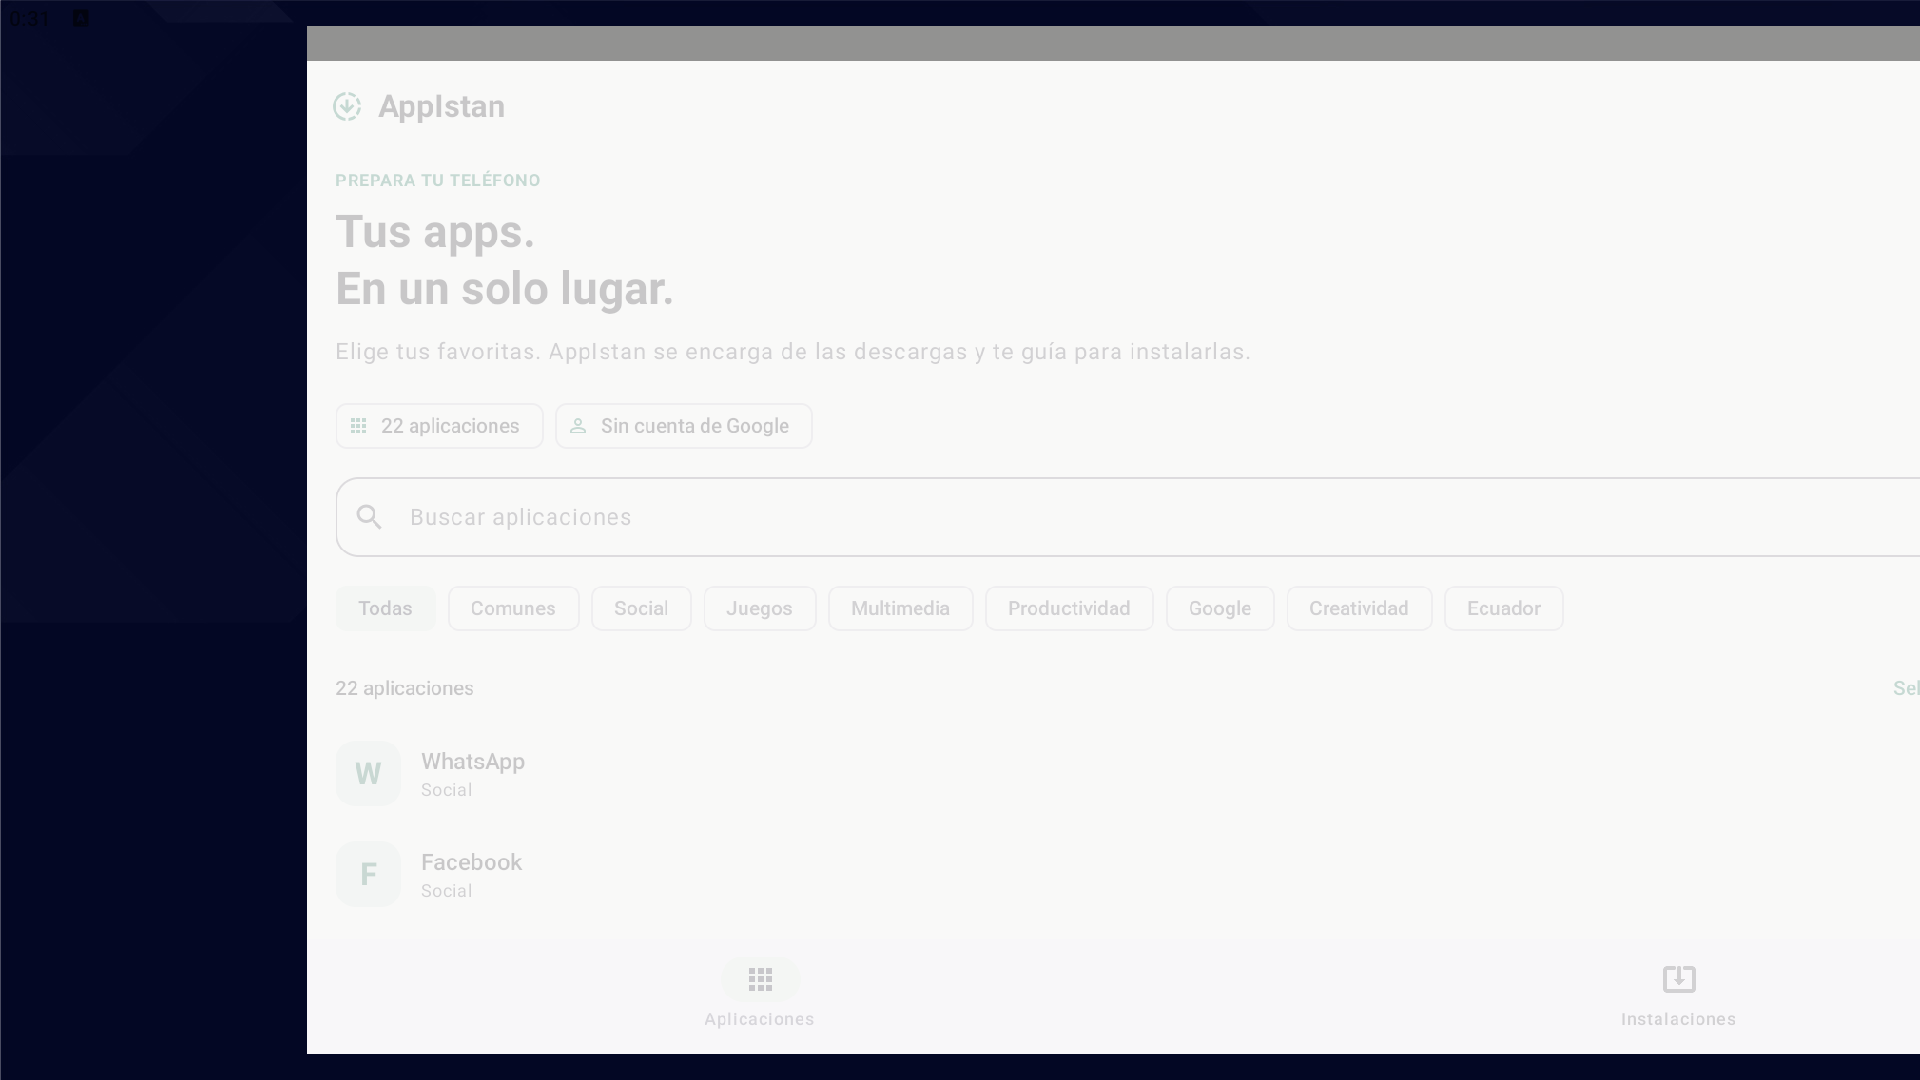
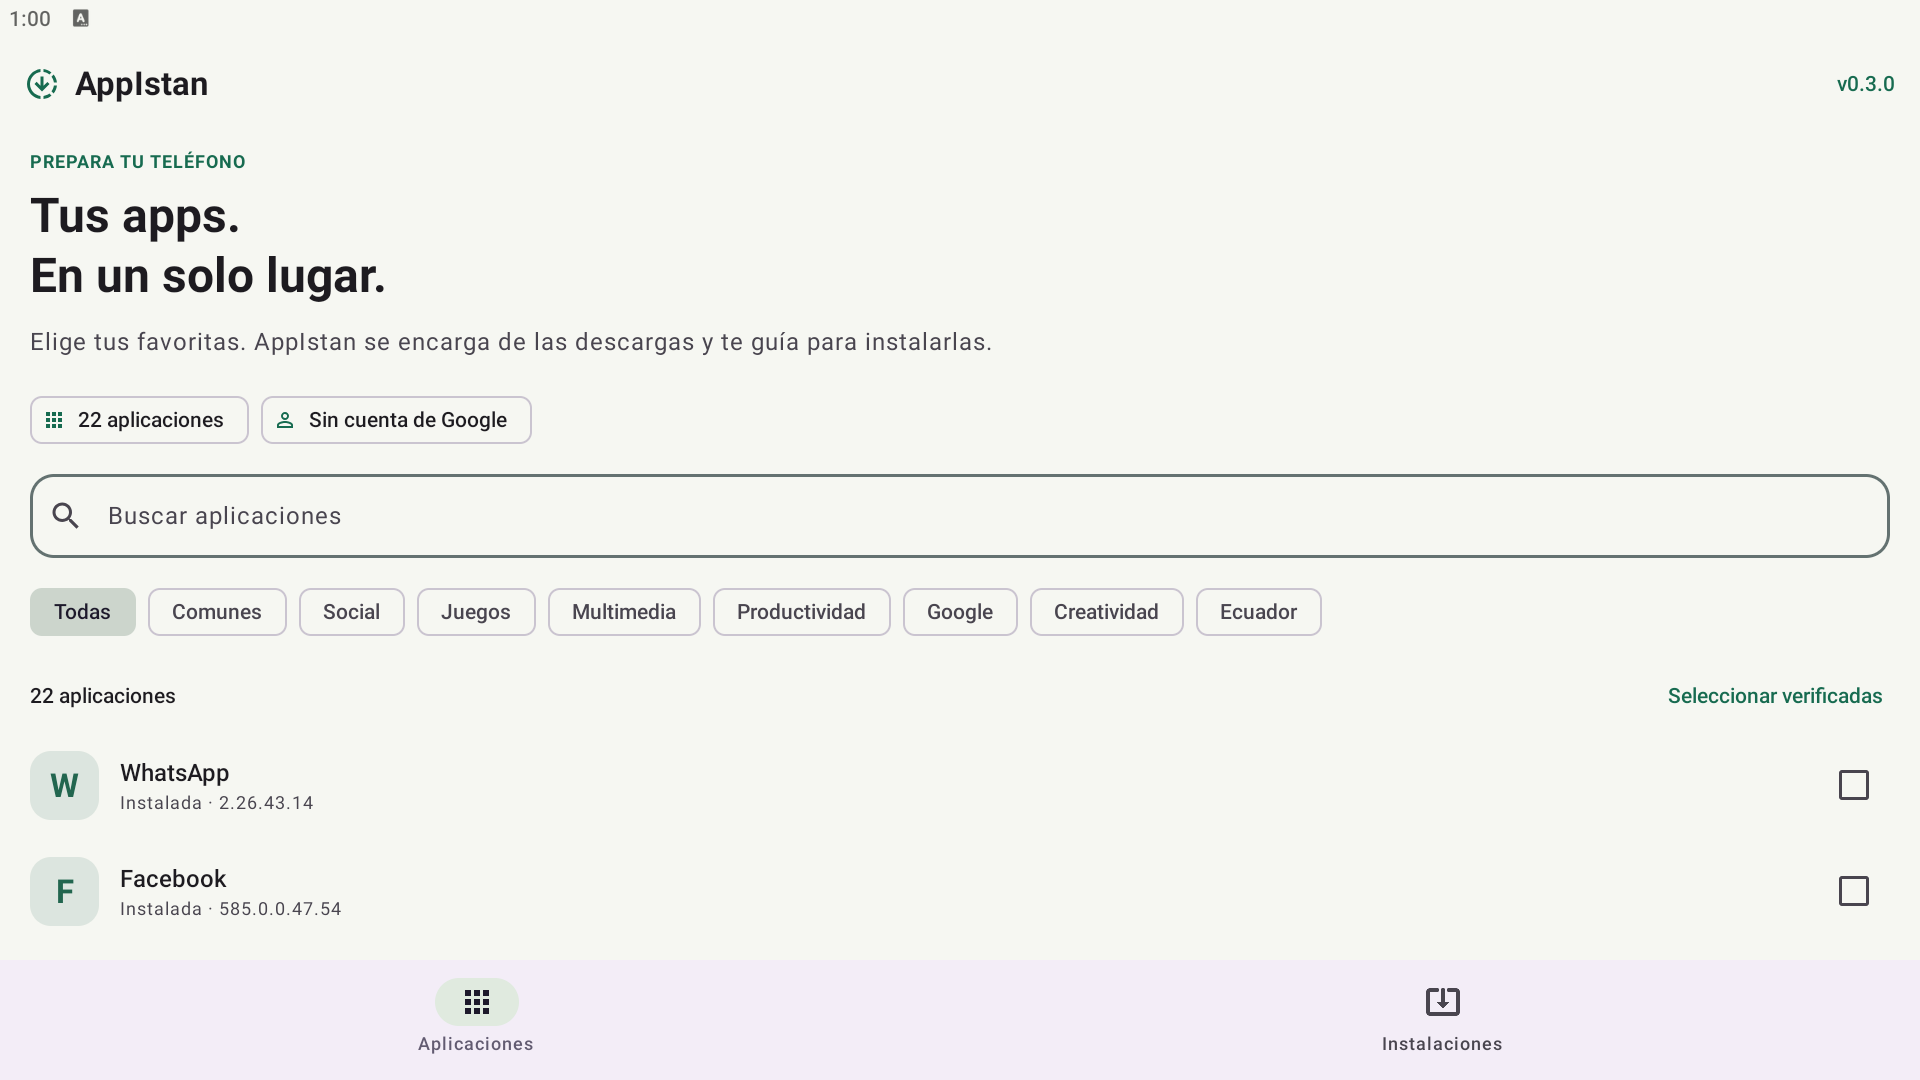
feat: download full batch before sequential installs

diff --git a/app/src/main/java/com/appistan/installer/InstallEngine.kt b/app/src/main/java/com/appistan/installer/InstallEngine.kt
@@ -20,6 +20,7 @@ class InstallEngine(private val context: AppIstan, val dao: QueueDao, private va
     private val installer = context.packageManager.packageInstaller
     val checks = PackageChecks(context, catalog)
     private val source = ApkSource()
+    private val preferences = context.getSharedPreferences("installer", Context.MODE_PRIVATE)
     private val prompts = ConcurrentHashMap<Int, Intent>()
     private val privateRoot = File(context.filesDir, "packages").apply { mkdirs() }
 
@@ -34,6 +35,11 @@ class InstallEngine(private val context: AppIstan, val dao: QueueDao, private va
 
     suspend fun recover() = lock.withLock {
         dao.items().forEach { row ->
+            if (row.id == catalog.playServices.id && PlayServicesPolicy.previousRejection(row)) {
+                if (row.phase == Phase.FAILED) rememberPlayServicesRejection()
+                complete(row, Phase.SKIPPED, PlayServicesPolicy.managedMessage)
+                return@forEach
+            }
             when (row.phase) {
                 Phase.RESOLVING -> dao.put(row.copy(phase = Phase.QUEUED, message = "Reanudando consulta"))
                 Phase.VERIFYING -> dao.put(row.copy(phase = Phase.DOWNLOADING, message = "Revisando archivos"))
@@ -54,10 +60,8 @@ class InstallEngine(private val context: AppIstan, val dao: QueueDao, private va
                 try { refresh(row) } catch (error: Exception) { fail(row, error) }
             }
             val rows = dao.items()
-            val gms = rows.firstOrNull { it.id == catalog.playServices.id }
-            val available = if (gms != null && !gms.phase.terminal) listOf(gms) else rows
             var slots = 2 - rows.count { it.phase == Phase.DOWNLOADING }
-            for (row in available.filter { it.phase == Phase.QUEUED }) {
+            for (row in rows.filter { it.phase == Phase.QUEUED }) {
                 if (slots <= 0) break
                 try { resolveAndDownload(row); slots-- } catch (error: Exception) { fail(row, error) }
             }
@@ -70,6 +74,13 @@ class InstallEngine(private val context: AppIstan, val dao: QueueDao, private va
         val installed = checks.installed(row.id)
         if (app.id == catalog.playServices.id && installed == null) {
             complete(row, Phase.SKIPPED, "Play Services no está instalado. Puedes continuar; algunas apps pueden necesitarlo.")
+            return
+        }
+        if (app.id == catalog.playServices.id && installed != null && (PlayServicesPolicy.systemManagedRuntime(Build.SUPPORTED_ABIS.toList()) || PlayServicesPolicy.blockedForCurrentSystem(
+                PackageChecks.version(installed), Build.FINGERPRINT,
+                preferences.getLong("gms_blocked_version", -1), preferences.getString("gms_blocked_build", null)
+            ))) {
+            complete(row, Phase.SKIPPED, PlayServicesPolicy.managedMessage)
             return
         }
         require(checks.trusted(row.id).isNotEmpty()) { "No disponible: falta corroborar la firma original del desarrollador" }
@@ -147,14 +158,12 @@ class InstallEngine(private val context: AppIstan, val dao: QueueDao, private va
         val actualRelease = release.copy(versionCode = verified.versionCode, versionName = verified.versionName)
         val current = checks.installed(row.id)?.let(PackageChecks::version)
         if (!ReleasePolicy.needsUpdate(current, verified.versionCode)) complete(row.copy(release = actualRelease.encode()), Phase.SKIPPED, "Ya tienes esta versión o una más reciente")
-        else dao.put(row.copy(phase = Phase.READY, message = "Lista para instalar · ${verified.versionName}", release = actualRelease.encode(), downloaded = received, total = total))
+        else dao.put(row.copy(phase = Phase.READY, message = "Descargada y verificada · ${verified.versionName}", release = actualRelease.encode(), downloaded = received, total = total))
     }
 
     suspend fun installNext(): Boolean = lock.withLock {
         val rows = dao.items()
-        if (rows.any { it.phase in setOf(Phase.INSTALLING, Phase.AWAITING_USER) }) return@withLock false
-        val gms = rows.firstOrNull { it.id == catalog.playServices.id && !it.phase.terminal }
-        val row = (if (gms == null) rows else listOf(gms)).firstOrNull { it.phase == Phase.READY } ?: return@withLock false
+        val row = BatchPolicy.nextInstall(rows) ?: return@withLock false
         var sessionId = -1
         try {
             require(context.packageManager.canRequestPackageInstalls()) { "Activa el permiso para instalar aplicaciones desde AppIstan" }
@@ -195,13 +204,20 @@ class InstallEngine(private val context: AppIstan, val dao: QueueDao, private va
             }
             PackageInstaller.STATUS_SUCCESS -> { complete(row, Phase.SUCCESS, "Instalada correctamente"); prompts.remove(sessionId) }
             else -> {
+                if (row.id == catalog.playServices.id && PlayServicesPolicy.permanentRejection(status)) {
+                    android.util.Log.w("AppIstan", "Play Services del sistema conservado: estado=$status, ${detail.orEmpty().take(180)}")
+                    rememberPlayServicesRejection()
+                    complete(row, Phase.SKIPPED, PlayServicesPolicy.managedMessage)
+                    prompts.remove(sessionId)
+                    return
+                }
                 val message = when (status) {
                     PackageInstaller.STATUS_FAILURE_ABORTED -> "Instalación cancelada en Android"
                     PackageInstaller.STATUS_FAILURE_STORAGE -> "Espacio insuficiente para instalar"
                     PackageInstaller.STATUS_FAILURE_CONFLICT -> "La firma o la versión no permite actualizar la aplicación instalada"
                     PackageInstaller.STATUS_FAILURE_INCOMPATIBLE -> "Esta versión no es compatible con el dispositivo"
                     PackageInstaller.STATUS_FAILURE_BLOCKED -> "Android bloqueó la instalación. Revisa los permisos o restricciones del dispositivo"
-                    PackageInstaller.STATUS_FAILURE_INVALID -> if (row.id == catalog.playServices.id) "Android rechazó esta actualización de Play Services. El resto del lote puede continuar." else "Android rechazó el conjunto de APK para este dispositivo. Prueba más tarde con otra versión."
+                    PackageInstaller.STATUS_FAILURE_INVALID -> "Android rechazó el conjunto de APK para este dispositivo. Prueba más tarde con otra versión."
                     else -> "Android no pudo instalar esta aplicación. Revisa la compatibilidad y vuelve a intentarlo."
                 }
                 android.util.Log.w("AppIstan", "Instalación rechazada: ${row.id}, estado=$status, ${detail.orEmpty().take(180)}")
@@ -212,6 +228,11 @@ class InstallEngine(private val context: AppIstan, val dao: QueueDao, private va
 
     fun takePrompt(sessionId: Int): Intent? = prompts.remove(sessionId)
     fun hasPrompt(sessionId: Int) = prompts.containsKey(sessionId)
+
+    private fun rememberPlayServicesRejection() {
+        val version = checks.installed(catalog.playServices.id)?.let(PackageChecks::version) ?: return
+        preferences.edit().putLong("gms_blocked_version", version).putString("gms_blocked_build", Build.FINGERPRINT).commit()
+    }
 
     suspend fun cancel(id: String) = lock.withLock {
         val row = dao.item(id) ?: return@withLock

diff --git a/app/src/main/java/com/appistan/installer/MainActivity.kt b/app/src/main/java/com/appistan/installer/MainActivity.kt
@@ -118,6 +118,8 @@ class MainActivity : ComponentActivity() {
     val focus = LocalFocusManager.current
     val running = rows.any { !it.phase.terminal }
     val finished = rows.count { it.phase.terminal }
+    val downloading = BatchPolicy.hasPendingDownloads(rows)
+    val prepared = BatchPolicy.preparedCount(rows)
     LaunchedEffect(error) { error?.let { snackbar.showSnackbar(it); model.error.value = null } }
     LaunchedEffect(rows.map { Triple(it.id, it.phase, it.sessionId) }, lifecycleState) {
         if (lifecycleState != Lifecycle.State.RESUMED) return@LaunchedEffect
@@ -179,11 +181,11 @@ class MainActivity : ComponentActivity() {
             }
         } else {
             LazyColumn(Modifier.fillMaxSize().padding(insets), contentPadding = PaddingValues(20.dp), verticalArrangement = Arrangement.spacedBy(12.dp)) {
-                item { Text(if (running) "Vamos paso a paso" else "Lote finalizado", style = MaterialTheme.typography.headlineMedium, fontWeight = FontWeight.Bold) }
+                item { Text(when { !running -> "Lote finalizado"; downloading -> "Descargando el lote"; else -> "Instalando el lote" }, style = MaterialTheme.typography.headlineMedium, fontWeight = FontWeight.Bold) }
                 item { Column(verticalArrangement = Arrangement.spacedBy(10.dp)) {
-                    Text("$finished de ${rows.size} procesadas · ${rows.count { it.phase == Phase.SUCCESS }} instaladas", color = MaterialTheme.colorScheme.onSurfaceVariant)
-                    LinearProgressIndicator(progress = { finished.toFloat() / rows.size }, modifier = Modifier.fillMaxWidth())
-                    Text("Android te pedirá confirmar las instalaciones. Puedes continuar aunque Play Services no se actualice.", style = MaterialTheme.typography.bodySmall, color = MaterialTheme.colorScheme.onSurfaceVariant)
+                    Text(if (downloading) "Descargas: $prepared de ${rows.size} procesadas" else "$finished de ${rows.size} procesadas · ${rows.count { it.phase == Phase.SUCCESS }} instaladas", color = MaterialTheme.colorScheme.onSurfaceVariant)
+                    LinearProgressIndicator(progress = { (if (downloading) prepared else finished).toFloat() / rows.size }, modifier = Modifier.fillMaxWidth())
+                    Text(if (downloading) "Primero se descargan y verifican todas las aplicaciones. Después confirmarás las instalaciones una por una." else "Confirma cada instalación para continuar con la siguiente. Play Services no bloquea las aplicaciones seleccionadas.", style = MaterialTheme.typography.bodySmall, color = MaterialTheme.colorScheme.onSurfaceVariant)
                 } }
                 items(rows, key = { it.id }) { row -> QueueCard(row, onCancel = { model.cancel(row.id) }, onRetry = { model.retry(row.id) }) }
             }

diff --git a/app/src/test/java/com/appistan/installer/PlayServicesPolicyTest.kt b/app/src/test/java/com/appistan/installer/PlayServicesPolicyTest.kt
@@ -1,0 +1,33 @@
+package com.appistan.installer
+
+import android.content.pm.PackageInstaller
+import org.junit.Assert.*
+import org.junit.Test
+
+class PlayServicesPolicyTest {
+    @Test fun translatedEmulatorKeepsItsPlatformPlayServicesBuild() {
+        assertTrue(PlayServicesPolicy.systemManagedRuntime(listOf("x86_64", "x86", "arm64-v8a", "armeabi-v7a")))
+        assertFalse(PlayServicesPolicy.systemManagedRuntime(listOf("arm64-v8a", "armeabi-v7a")))
+        assertFalse(PlayServicesPolicy.systemManagedRuntime(listOf("x86_64", "x86")))
+    }
+    @Test fun skipsTheSystemVersionThatAlreadyRejectedAnUpdate() {
+        assertTrue(PlayServicesPolicy.blockedForCurrentSystem(241017026, "build-a", 241017026, "build-a"))
+        assertFalse(PlayServicesPolicy.blockedForCurrentSystem(241017026, "build-a", -1, null))
+    }
+    @Test fun systemUpdateAllowsCheckingAgain() {
+        assertFalse(PlayServicesPolicy.blockedForCurrentSystem(251000000, "build-a", 241017026, "build-a"))
+        assertFalse(PlayServicesPolicy.blockedForCurrentSystem(241017026, "build-b", 241017026, "build-a"))
+    }
+    @Test fun temporaryFailuresDoNotDisableUpdates() {
+        assertTrue(PlayServicesPolicy.permanentRejection(PackageInstaller.STATUS_FAILURE_INVALID))
+        assertTrue(PlayServicesPolicy.permanentRejection(PackageInstaller.STATUS_FAILURE_INCOMPATIBLE))
+        assertFalse(PlayServicesPolicy.permanentRejection(PackageInstaller.STATUS_FAILURE_STORAGE))
+        assertFalse(PlayServicesPolicy.permanentRejection(PackageInstaller.STATUS_FAILURE_ABORTED))
+        assertFalse(PlayServicesPolicy.permanentRejection(PackageInstaller.STATUS_FAILURE_BLOCKED))
+    }
+    @Test fun recoversTheRejectionRecordedByThePreviousVersion() {
+        val rejected = QueueItem("com.google.android.gms", "Google Play Services", 0, Phase.FAILED, "Android rechazó esta actualización de Play Services. El resto del lote puede continuar.")
+        assertTrue(PlayServicesPolicy.previousRejection(rejected))
+        assertFalse(PlayServicesPolicy.previousRejection(rejected.copy(message = "Se interrumpió la conexión de descarga")))
+    }
+}

diff --git a/app/src/test/java/com/appistan/installer/BatchPolicyTest.kt b/app/src/test/java/com/appistan/installer/BatchPolicyTest.kt
@@ -1,0 +1,36 @@
+package com.appistan.installer
+
+import org.junit.Assert.*
+import org.junit.Test
+
+class BatchPolicyTest {
+    private fun row(position: Int, phase: Phase) = QueueItem("app.$position", "App $position", position, phase)
+
+    @Test fun waitsForEveryDownloadAndVerification() {
+        for (phase in listOf(Phase.QUEUED, Phase.RESOLVING, Phase.DOWNLOADING, Phase.VERIFYING)) {
+            val rows = listOf(row(0, Phase.READY), row(1, phase))
+            assertTrue(BatchPolicy.hasPendingDownloads(rows))
+            assertNull(BatchPolicy.nextInstall(rows))
+        }
+    }
+    @Test fun startsInBatchOrderOnlyAfterEverythingIsPrepared() {
+        val first = row(0, Phase.READY)
+        assertEquals(first, BatchPolicy.nextInstall(listOf(row(2, Phase.READY), first, row(1, Phase.READY))))
+    }
+    @Test fun neverStartsASecondInstallerWhileTheFirstIsActive() {
+        assertNull(BatchPolicy.nextInstall(listOf(row(0, Phase.INSTALLING), row(1, Phase.READY))))
+        assertNull(BatchPolicy.nextInstall(listOf(row(0, Phase.AWAITING_USER), row(1, Phase.READY))))
+    }
+    @Test fun failedSkippedAndCancelledAppsDoNotBlockThePreparedApps() {
+        val next = row(3, Phase.READY)
+        assertEquals(next, BatchPolicy.nextInstall(listOf(row(0, Phase.SKIPPED), row(1, Phase.FAILED), row(2, Phase.CANCELLED), next)))
+    }
+    @Test fun retryingAnAppReturnsToTheDownloadPhase() {
+        assertNull(BatchPolicy.nextInstall(listOf(row(0, Phase.SUCCESS), row(1, Phase.QUEUED), row(2, Phase.READY))))
+    }
+    @Test fun emptyAndFinishedBatchesDoNotStartAnInstaller() {
+        assertNull(BatchPolicy.nextInstall(emptyList()))
+        assertNull(BatchPolicy.nextInstall(listOf(row(0, Phase.SUCCESS), row(1, Phase.SKIPPED))))
+        assertEquals(1, BatchPolicy.preparedCount(listOf(row(0, Phase.READY), row(1, Phase.DOWNLOADING))))
+    }
+}

diff --git a/app/src/main/java/com/appistan/installer/PlayServicesPolicy.kt b/app/src/main/java/com/appistan/installer/PlayServicesPolicy.kt
@@ -1,0 +1,26 @@
+package com.appistan.installer
+
+import android.content.pm.PackageInstaller
+
+object PlayServicesPolicy {
+    const val managedMessage = "Play Services se mantiene con la versión del sistema. Continúas con las aplicaciones seleccionadas."
+
+    fun blockedForCurrentSystem(installedVersion: Long, deviceBuild: String, blockedVersion: Long, blockedBuild: String?) =
+        installedVersion >= 0 && installedVersion == blockedVersion && deviceBuild == blockedBuild
+
+    fun systemManagedRuntime(abis: List<String>): Boolean {
+        // Native translation uses the platform's own Play Services variant.
+        val supported = abis.map(ReleasePolicy::normalizeAbi)
+        return supported.any { it.startsWith("x86") } && supported.any { it.startsWith("arm") }
+    }
+
+    fun permanentRejection(status: Int) = status in setOf(
+        PackageInstaller.STATUS_FAILURE_INVALID,
+        PackageInstaller.STATUS_FAILURE_INCOMPATIBLE,
+        PackageInstaller.STATUS_FAILURE_CONFLICT
+    )
+
+    fun previousRejection(row: QueueItem): Boolean =
+        (row.phase == Phase.SKIPPED && row.message == managedMessage) ||
+            (row.phase == Phase.FAILED && (row.message.startsWith("Android rechazó esta actualización de Play Services") || row.message.contains("INSTALL_FAILED_INVALID_APK")))
+}

diff --git a/site/index.html b/site/index.html
@@ -30,8 +30,8 @@
       <div class="section-heading"><h2 id="steps-title">Del celular vacío<br>a tus apps favoritas.</h2><p>Menos búsquedas, menos descargas por separado. Tú decides qué instalar.</p></div>
       <ol>
         <li><span class="step-number" aria-hidden="true">1</span><h3>Elige</h3><p>Busca las aplicaciones disponibles o entra en Comunes para encontrar Facebook, WhatsApp, TikTok y Messenger.</p></li>
-        <li><span class="step-number" aria-hidden="true">2</span><h3>Descarga</h3><p>AppIstan revisa primero Play Services y prepara las versiones compatibles disponibles.</p></li>
-        <li><span class="step-number" aria-hidden="true">3</span><h3>Confirma</h3><p>Aprueba las instalaciones que te solicite Android y sigue el progreso desde la app.</p></li>
+        <li><span class="step-number" aria-hidden="true">2</span><h3>Descarga</h3><p>AppIstan revisa Play Services y descarga y verifica todo el lote antes de comenzar a instalar.</p></li>
+        <li><span class="step-number" aria-hidden="true">3</span><h3>Confirma</h3><p>Cuando terminen las descargas, aprueba las instalaciones de Android una tras otra.</p></li>
       </ol>
     </section>
 

diff --git a/app/src/main/java/com/appistan/installer/BatchPolicy.kt b/app/src/main/java/com/appistan/installer/BatchPolicy.kt
@@ -1,0 +1,11 @@
+package com.appistan.installer
+
+object BatchPolicy {
+    private val downloadPhases = setOf(Phase.QUEUED, Phase.RESOLVING, Phase.DOWNLOADING, Phase.VERIFYING)
+    fun hasPendingDownloads(rows: List<QueueItem>) = rows.any { it.phase in downloadPhases }
+    fun preparedCount(rows: List<QueueItem>) = rows.count { it.phase !in downloadPhases }
+    fun nextInstall(rows: List<QueueItem>): QueueItem? {
+        if (hasPendingDownloads(rows) || rows.any { it.phase == Phase.INSTALLING || it.phase == Phase.AWAITING_USER }) return null
+        return rows.filter { it.phase == Phase.READY }.minByOrNull { it.position }
+    }
+}

diff --git a/VALIDATION.md b/VALIDATION.md
@@ -1,5 +1,13 @@
 # Validación de AppIstan
 
+## Versión 0.3.0
+
+- 26 pruebas unitarias: las 15 anteriores, 6 de preparación del lote y orden de instalación, y 5 del tratamiento de Play Services.
+- La barrera de instalación contempla aplicaciones en espera, consulta, descarga o verificación; también se comprueban reintentos, errores, cancelaciones y una sola instalación activa.
+- BlueStacks: actualización del paquete público conservando las cuatro aplicaciones del lote anterior. El rechazo antiguo de Play Services se recuperó como omisión informativa, manteniendo la versión del sistema.
+- Prueba desde la interfaz con Google Calendar (APK base y tres splits) y Facebook Lite: ambos conjuntos descargados antes de la primera confirmación nativa. Al cancelar Calendar, Android abrió automáticamente la confirmación de Lite. Se cancelaron ambas sin instalar aplicaciones de prueba.
+- La comprobación utiliza Android 9 con traducción x86/ARM. No se ha validado este nuevo flujo en un teléfono físico.
+
 ## Versión 0.2.0
 
 - 15 pruebas unitarias: las 10 comprobaciones anteriores y 5 del catálogo, búsqueda, filtro Comunes, compatibilidad y codificación de la API.

diff --git a/CHANGELOG.md b/CHANGELOG.md
@@ -2,6 +2,14 @@
 
 ## [Unreleased]
 
+## [0.3.0] - 2026-10-31
+
+- Descarga y verificación del lote completo antes de solicitar la primera instalación.
+- Confirmaciones de Android consecutivas, con una sola instalación activa y progreso separado de descargas.
+- Conservación de Play Services del sistema en BlueStacks y otros entornos con traducción x86/ARM para evitar actualizaciones rechazadas por la plataforma.
+- Recuperación del rechazo de Play Services registrado en versiones anteriores y recuerdo de rechazos permanentes hasta que cambie la versión instalada o el sistema.
+- Pruebas de la separación entre descargas e instalaciones, orden, reintentos y tratamiento de Play Services.
+
 ## [0.2.0] - 2026-10-31
 
 - Catálogo depurado: 27 aplicaciones con descargas comprobadas y 23 entradas sin fuente verificable retiradas.
